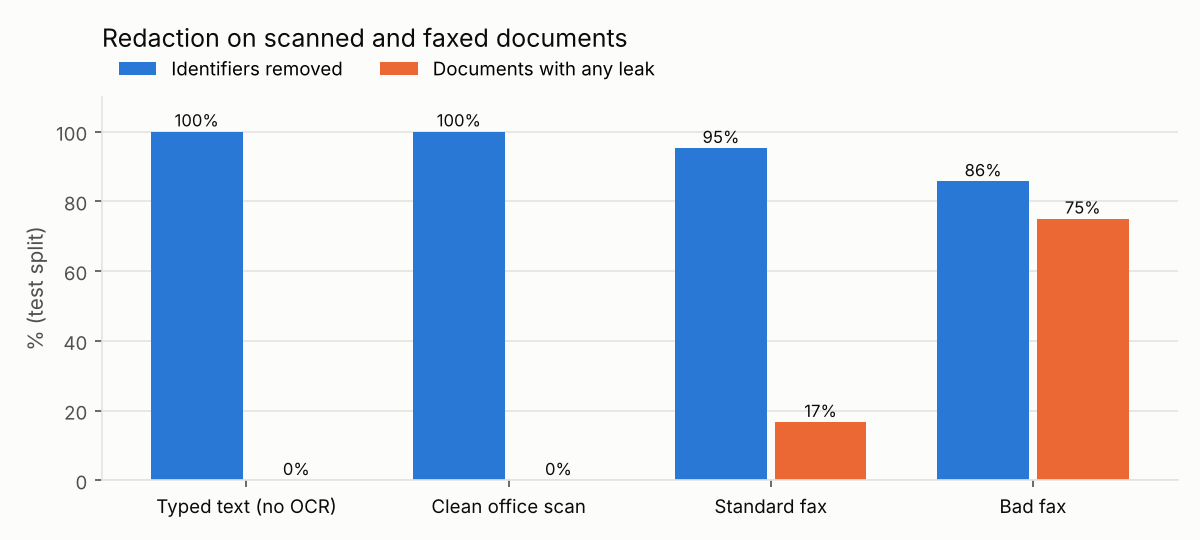
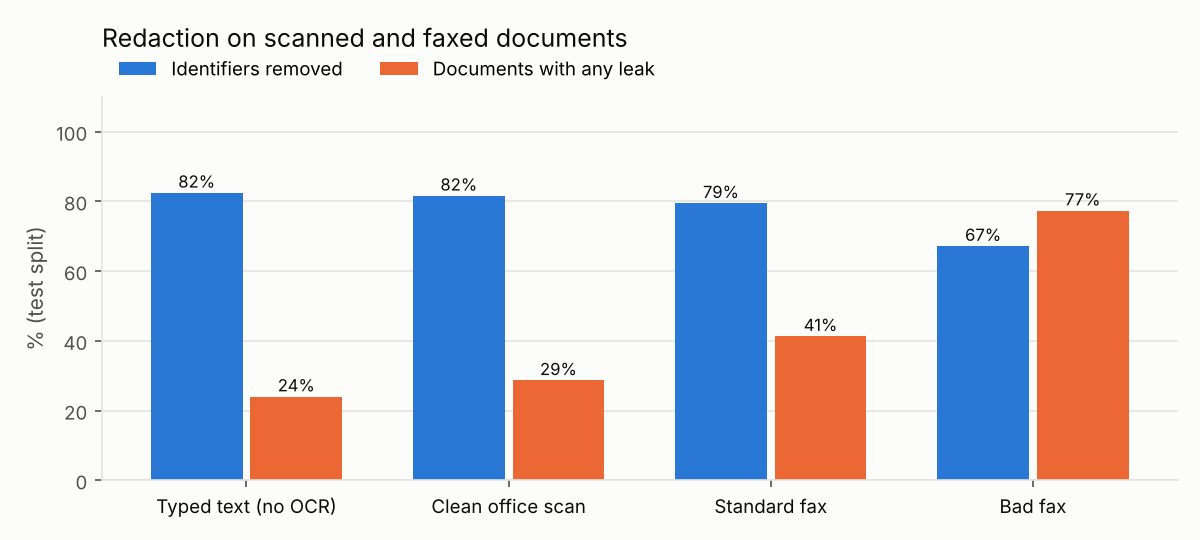
OCR benchmark results on the test split
eval/RESULTS_OCR.md: 150 test documents as clean scans, standard faxes and bad
faxes. Removal of identifiers: typed 82.4%, scan 81.6%, fax 79.5%, bad fax
67.2%; documents with any leak 24% / 29% / 41% / 77%. Black boxes cover 99.3%
of details removed from the text. Discussion explains checksum and label
misreads and what would improve them; sample sizes shown per type.

make eval and phi-guard eval now include the OCR benchmark; RESULTS.md links it
(its numbers are unchanged).

Claude-Session: https://claude.ai/code/session_01D7Hq9urPzZ2DMc9G43M9Wr

diff --git a/eval/ocr_eval.py b/eval/ocr_eval.py
@@ -186,6 +186,7 @@ def summarize(rows: list[dict[str, Any]]) -> dict[str, Any]:
         "cer": sum(r["cer"] for r in rows) / len(rows),
         "sec_per_page": sum(r["seconds"] for r in rows) / pages,
         "per_type": {k: 1 - v[0] / v[1] for k, v in per_type.items() if v[1]},
+        "per_type_n": {k: v[1] for k, v in per_type.items()},
         "confidence": (sum(r["confidence"] for r in rows if r["confidence"]) / len(rows))
         if rows[0]["confidence"]
         else None,
@@ -263,14 +264,17 @@ def write_report(
         "",
         "## Identifiers removed, by type",
         "",
-        "| Type | " + " | ".join(LEVEL_NAMES[lv] for lv in summaries) + " |",
+        "Types with fewer than 20 examples (marked *) are too rare here for their percentages to mean much.",
+        "",
+        "| Type | Examples | " + " | ".join(LEVEL_NAMES[lv] for lv in summaries) + " |",
     ]
-    L += ["|---|" + "---:|" * len(summaries)]
+    L += ["|---|---:|" + "---:|" * len(summaries)]
     for k in LABELS:
         if k in summaries["text"]["per_type"]:
-            L.append(
-                f"| {DISPLAY[k]} | " + " | ".join(pct(summaries[lv]["per_type"].get(k, 0)) for lv in summaries) + " |"
-            )
+            n = summaries["text"]["per_type_n"][k]
+            label = DISPLAY[k] + (" *" if n < 20 else "")
+            cells = " | ".join(pct(summaries[lv]["per_type"].get(k, 0)) for lv in summaries)
+            L.append(f"| {label} | {n} | {cells} |")
     if "visual_removed" in summaries.get("fax", {}):
         s = summaries["fax"]
         L += [
@@ -339,7 +343,10 @@ def main(argv: list[str] | None = None) -> int:
     chart(summaries, HERE / "charts" / "ocr_levels.png")
     args.out.write_text(write_report(summaries, all_rows, info), encoding="utf-8")
     (HERE / f"summary_ocr_{args.split}.json").write_text(
-        json.dumps({k: {kk: vv for kk, vv in v.items() if kk != "per_type"} for k, v in summaries.items()}, indent=2)
+        json.dumps(
+            {k: {kk: vv for kk, vv in v.items() if kk not in ("per_type", "per_type_n")} for k, v in summaries.items()},
+            indent=2,
+        )
         + "\n",
         encoding="utf-8",
     )

diff --git a/src/phi_guard/cli.py b/src/phi_guard/cli.py
@@ -235,7 +235,8 @@ def _eval(args: argparse.Namespace) -> int:
         return 1
     gen = [sys.executable, "-m", "eval.generate"] + (["--quick"] if args.quick else [])
     run = [sys.executable, "-m", "eval.run"] + (["--quick"] if args.quick else [])
-    for cmd in (gen, run):
+    ocr_run = [sys.executable, "-m", "eval.ocr_eval"] + (["--docs", "10"] if args.quick else [])
+    for cmd in (gen, run, ocr_run):
         code = subprocess.call(cmd, cwd=root)
         if code:
             return code

diff --git a/eval/run.py b/eval/run.py
@@ -392,6 +392,7 @@ def write_results(
         "Rules were developed on the separate `dev` split only.",
         f"* Presidio: `presidio-analyzer` default recognizers, spaCy `{model}`.",
         "* All data is synthetic, generated by `eval/generate.py` with fixed seeds.",
+        "* Scanned and faxed documents (OCR): see [RESULTS_OCR.md](RESULTS_OCR.md).",
         "",
         "## Headline",
         "",

diff --git a/eval/RESULTS_OCR.md b/eval/RESULTS_OCR.md
@@ -1,0 +1,116 @@
+# Benchmark results: scanned and faxed documents
+
+> Auto-generated by `python -m eval.ocr_eval`. Main results: [RESULTS.md](RESULTS.md).
+
+* 150 test-split documents (1179 labelled identifiers), rendered as page images at three quality levels by `eval/fax.py`.
+* OCR: Tesseract 5.3.4 (English), 3x3 median filter, automatic page layout. These choices were made on dev documents only and frozen in a commit before this ran.
+* Redaction: phi-guard default configuration, unchanged.
+* A detail **survives** if it still appears in the redacted output exactly or nearly (OCR misreads like `Whitfie1d` still reveal the name); names are checked word by word. Lower survival is better.
+
+![Redaction on scans](charts/ocr_levels.png)
+
+| Input | Character error rate | Identifiers removed | Documents with any leak | OCR seconds per page |
+|---|---:|---:|---:|---:|
+| Typed text (no OCR) | – | 82.4% | **24.0%** | 0.00 |
+| Clean office scan | 0.1% | 81.6% | **28.7%** | 1.00 |
+| Standard fax | 0.3% | 79.5% | **41.3%** | 0.75 |
+| Bad fax | 2.1% | 67.2% | **77.3%** | 0.74 |
+
+## Identifiers removed, by type
+
+Types with fewer than 20 examples (marked *) are too rare here for their percentages to mean much.
+
+| Type | Examples | Typed text (no OCR) | Clean office scan | Standard fax | Bad fax |
+|---|---:|---:|---:|---:|---:|
+| Name | 378 | 58.2% | 57.4% | 57.9% | 51.3% |
+| Date of birth | 150 | 80.0% | 80.0% | 78.0% | 61.3% |
+| OHIP number | 138 | 100.0% | 100.0% | 94.2% | 83.3% |
+| SIN * | 5 | 100.0% | 100.0% | 100.0% | 60.0% |
+| Credit card * | 2 | 100.0% | 50.0% | 100.0% | 50.0% |
+| Email | 62 | 100.0% | 100.0% | 98.4% | 96.8% |
+| Phone | 135 | 99.3% | 99.3% | 98.5% | 85.2% |
+| Postal code | 112 | 100.0% | 94.6% | 87.5% | 62.5% |
+| Street address | 112 | 83.9% | 83.9% | 83.0% | 75.0% |
+| MRN | 66 | 100.0% | 100.0% | 93.9% | 68.2% |
+| IP address * | 19 | 100.0% | 100.0% | 89.5% | 68.4% |
+
+## Redacted copy of the scan (black boxes), standard fax
+
+For every labelled detail we know exactly where it was drawn on the page (including the fax skew), and measure how much of its ink (dark pixels) lies under a black box. A detail counts as hidden if at least 98% of its ink is covered.
+
+| Measure | Result |
+|---|---:|
+| Details removed from the redacted text | 79.5% |
+| Details hidden by black boxes on the redacted scan | 79.6% |
+| Of the details removed from the text, also hidden by the black boxes | 99.3% |
+| Redacted scans with any detail not fully covered | 40.7% |
+
+## Examples of details that survived on a standard fax (synthetic)
+
+* `POSTAL_CODE`: `P4S 9H6`
+* `IP_ADDRESS`: `10.100.185.164`
+* `NAME`: `Amanda Fernandez`
+* `DATE_OF_BIRTH`: `29-May-1995`
+* `NAME`: `Katelyn Fernandez`
+* `ADDRESS`: `480b floyd dr #968`
+* `DATE_OF_BIRTH`: `03-May-1983`
+* `ADDRESS`: `5338 taylor st`
+* `POSTAL_CODE`: `A5A 7B6`
+* `OHIP_NUMBER`: `9681-152-923`
+* `OHIP_NUMBER`: `6564-142-146`
+* `MRN`: `5849035`
+* `MRN`: `H-145894`
+* `PHONE`: `+1 604 265 6709`
+* `IP_ADDRESS`: `172.108.99.185`
+* `PHONE`: `2891510335`
+* `EMAIL`: `justin8@example.net`
+
+## Discussion
+
+The OCR pipeline (Tesseract, a 3x3 median filter, automatic page layout) was chosen on dev documents and
+frozen in a commit before this test run. The one later change, merging each detail's words into one black box
+per line, was also made on dev data and committed before this run. Nothing was changed after seeing these numbers.
+
+### What works well
+
+* **Clean scans are nearly as good as typed text.** Character errors are about 0.1%, and redaction removes
+  81.6% of identifiers versus 82.4% from the typed original. For a referral scanned on an office copier, the
+  scan itself costs almost nothing.
+* **The redacted copy of the scan is reliable.** Of the details removed from the text, 99.3% were also fully
+  covered by black boxes on the scan, measured against the exact positions where each character was drawn.
+  The output is image-only, so nothing hidden survives under the boxes.
+* **It's fast enough:** under a second per page on a laptop CPU.
+
+### Where it fails
+
+* **Faxes add leaks, and bad faxes add many.** Documents with any surviving identifier rise from 24% (typed)
+  to 41% on a standard fax and 77% on a bad fax.
+* **Checksums turn small misreads into misses.** One misread digit makes an OHIP number, SIN or card fail its
+  Luhn check, so it is no longer recognized: OHIP removal falls from 100% (typed) to 94% (fax) and 83%
+  (bad fax). SINs and payment cards use the same checksum and should behave the same way, but they are too rare
+  in this sample (5 and 2 examples) to measure. The checksum that protects precision on typed text works against
+  recall on scans.
+* **Labels get misread too.** If "MRN:" or "DOB:" is misread, the cue that triggers the detector is lost: MRN
+  removal falls to 68% and date of birth to 61% on bad faxes.
+* **Everything that fails on typed text still fails.** Uncued names, `29-May-1995` dates and lowercase
+  addresses (the held-out template) are missed at every quality level; OCR doesn't create those failures but
+  can't fix them either.
+
+### Why
+
+OCR errors are small on average (2% of characters even on bad faxes) but concentrated in exactly the places
+that matter: digits, punctuation in numbers, and short label words. A rule-based detector is exact by design,
+so a single wrong character is enough to miss an identifier.
+
+### What would improve it
+
+1. **Scan-aware number detection.** On OCR'd text, accept health card and SIN-shaped numbers that fail the
+   checksum when they follow a cue ("OHIP", "Health card", "SIN"), marked "Please check". This needs to be
+   designed on dev data and measured on a fresh test split, not tuned on this one.
+2. **Fuzzy cue words** ("MRN", "DOB", "Patient") that tolerate one misread character on OCR'd text.
+3. **Better image cleanup for bad faxes:** automatic deskew and adaptive thresholding before recognition.
+4. **Highlight low-confidence words in the review screen**, since misread words are where leaks hide.
+5. **Evaluate on real faxes** (with permission and proper safeguards). Synthetic degradation approximates fax
+   artefacts but cannot reproduce real fax machines, handwriting, stamps or poor originals.
+6. **Keep a human in the loop.** Studio already shows OCR confidence, the scanned pages side by side, and asks
+   users to compare names and numbers before sharing. This benchmark is why that step is there.

diff --git a/eval/discussion_ocr.md b/eval/discussion_ocr.md
@@ -1,0 +1,49 @@
+## Discussion
+
+The OCR pipeline (Tesseract, a 3x3 median filter, automatic page layout) was chosen on dev documents and
+frozen in a commit before this test run. The one later change, merging each detail's words into one black box
+per line, was also made on dev data and committed before this run. Nothing was changed after seeing these numbers.
+
+### What works well
+
+* **Clean scans are nearly as good as typed text.** Character errors are about 0.1%, and redaction removes
+  81.6% of identifiers versus 82.4% from the typed original. For a referral scanned on an office copier, the
+  scan itself costs almost nothing.
+* **The redacted copy of the scan is reliable.** Of the details removed from the text, 99.3% were also fully
+  covered by black boxes on the scan, measured against the exact positions where each character was drawn.
+  The output is image-only, so nothing hidden survives under the boxes.
+* **It's fast enough:** under a second per page on a laptop CPU.
+
+### Where it fails
+
+* **Faxes add leaks, and bad faxes add many.** Documents with any surviving identifier rise from 24% (typed)
+  to 41% on a standard fax and 77% on a bad fax.
+* **Checksums turn small misreads into misses.** One misread digit makes an OHIP number, SIN or card fail its
+  Luhn check, so it is no longer recognized: OHIP removal falls from 100% (typed) to 94% (fax) and 83%
+  (bad fax). SINs and payment cards use the same checksum and should behave the same way, but they are too rare
+  in this sample (5 and 2 examples) to measure. The checksum that protects precision on typed text works against
+  recall on scans.
+* **Labels get misread too.** If "MRN:" or "DOB:" is misread, the cue that triggers the detector is lost: MRN
+  removal falls to 68% and date of birth to 61% on bad faxes.
+* **Everything that fails on typed text still fails.** Uncued names, `29-May-1995` dates and lowercase
+  addresses (the held-out template) are missed at every quality level; OCR doesn't create those failures but
+  can't fix them either.
+
+### Why
+
+OCR errors are small on average (2% of characters even on bad faxes) but concentrated in exactly the places
+that matter: digits, punctuation in numbers, and short label words. A rule-based detector is exact by design,
+so a single wrong character is enough to miss an identifier.
+
+### What would improve it
+
+1. **Scan-aware number detection.** On OCR'd text, accept health card and SIN-shaped numbers that fail the
+   checksum when they follow a cue ("OHIP", "Health card", "SIN"), marked "Please check". This needs to be
+   designed on dev data and measured on a fresh test split, not tuned on this one.
+2. **Fuzzy cue words** ("MRN", "DOB", "Patient") that tolerate one misread character on OCR'd text.
+3. **Better image cleanup for bad faxes:** automatic deskew and adaptive thresholding before recognition.
+4. **Highlight low-confidence words in the review screen**, since misread words are where leaks hide.
+5. **Evaluate on real faxes** (with permission and proper safeguards). Synthetic degradation approximates fax
+   artefacts but cannot reproduce real fax machines, handwriting, stamps or poor originals.
+6. **Keep a human in the loop.** Studio already shows OCR confidence, the scanned pages side by side, and asks
+   users to compare names and numbers before sharing. This benchmark is why that step is there.

diff --git a/eval/RESULTS.md b/eval/RESULTS.md
@@ -7,6 +7,7 @@
 * Split: **test** (500 synthetic documents, 3815 labelled identifiers). Rules were developed on the separate `dev` split only.
 * Presidio: `presidio-analyzer` default recognizers, spaCy `en_core_web_lg`.
 * All data is synthetic, generated by `eval/generate.py` with fixed seeds.
+* Scanned and faxed documents (OCR): see [RESULTS_OCR.md](RESULTS_OCR.md).
 
 ## Headline
 
@@ -14,11 +15,11 @@ Overall = micro-average over all identifier types. *Exact* requires identical sp
 
 | System | Precision (exact) | Recall (exact) | F1 (exact) | Precision (overlap) | Recall (overlap) | F1 (overlap) | Leakage rate | Time (s) |
 |---|---:|---:|---:|---:|---:|---:|---:|---:|
-| phi-guard (regex only) | 72.0 | 74.6 | 73.3 | 72.0 | 74.6 | 73.3 | **71.4%** | 0.2 |
-| phi-guard (default) | 69.1 | 82.4 | 75.2 | 69.1 | 82.4 | 75.2 | **22.0%** | 0.2 |
-| phi-guard + clinic word list | 99.8 | 82.4 | 90.3 | 99.8 | 82.4 | 90.3 | **22.0%** | 0.2 |
-| phi-guard + NER | 63.4 | 91.4 | 74.8 | 64.7 | 93.4 | 76.5 | **22.0%** | 8.4 |
-| Presidio | 30.5 | 51.2 | 38.2 | 35.8 | 58.7 | 44.5 | **92.2%** | 13.6 |
+| phi-guard (regex only) | 72.0 | 74.6 | 73.3 | 72.0 | 74.6 | 73.3 | **71.4%** | 0.1 |
+| phi-guard (default) | 69.1 | 82.4 | 75.2 | 69.1 | 82.4 | 75.2 | **22.0%** | 0.1 |
+| phi-guard + clinic word list | 99.8 | 82.4 | 90.3 | 99.8 | 82.4 | 90.3 | **22.0%** | 0.1 |
+| phi-guard + NER | 63.4 | 91.4 | 74.8 | 64.7 | 93.4 | 76.5 | **22.0%** | 6.0 |
+| Presidio | 30.5 | 51.2 | 38.2 | 35.8 | 58.7 | 44.5 | **92.2%** | 9.8 |
 
 ## Generalization: seen vs held-out templates
 
